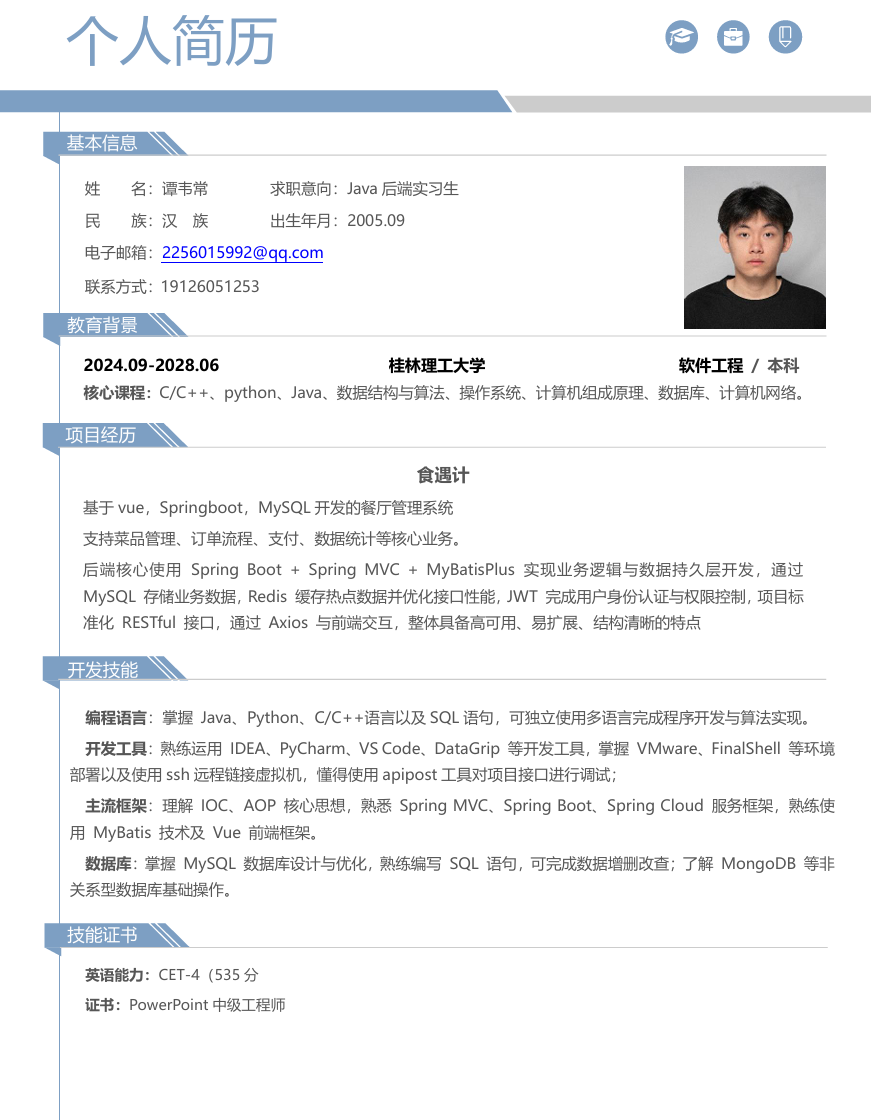
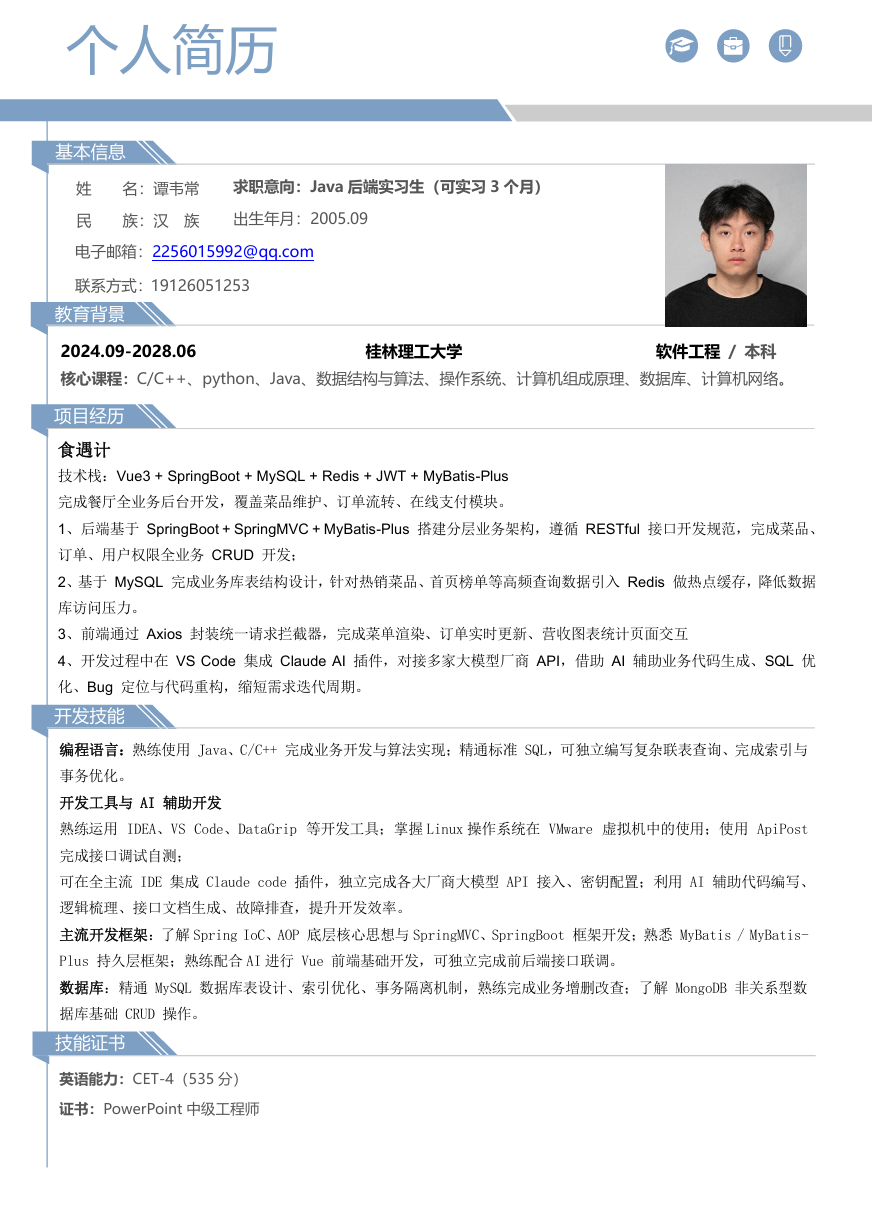
update

diff --git a/content/post/resume.md b/content/post/resume.md
@@ -1,6 +1,6 @@
 ---
 title: "个人简历"
-description: "谭韦常 · 个人简历"
+description: "谭韦常 · 个人简历（持续更新）"
 date: 2026-06-11T16:00:00+08:00
 slug: "resume"
 tags: ["简历"]
